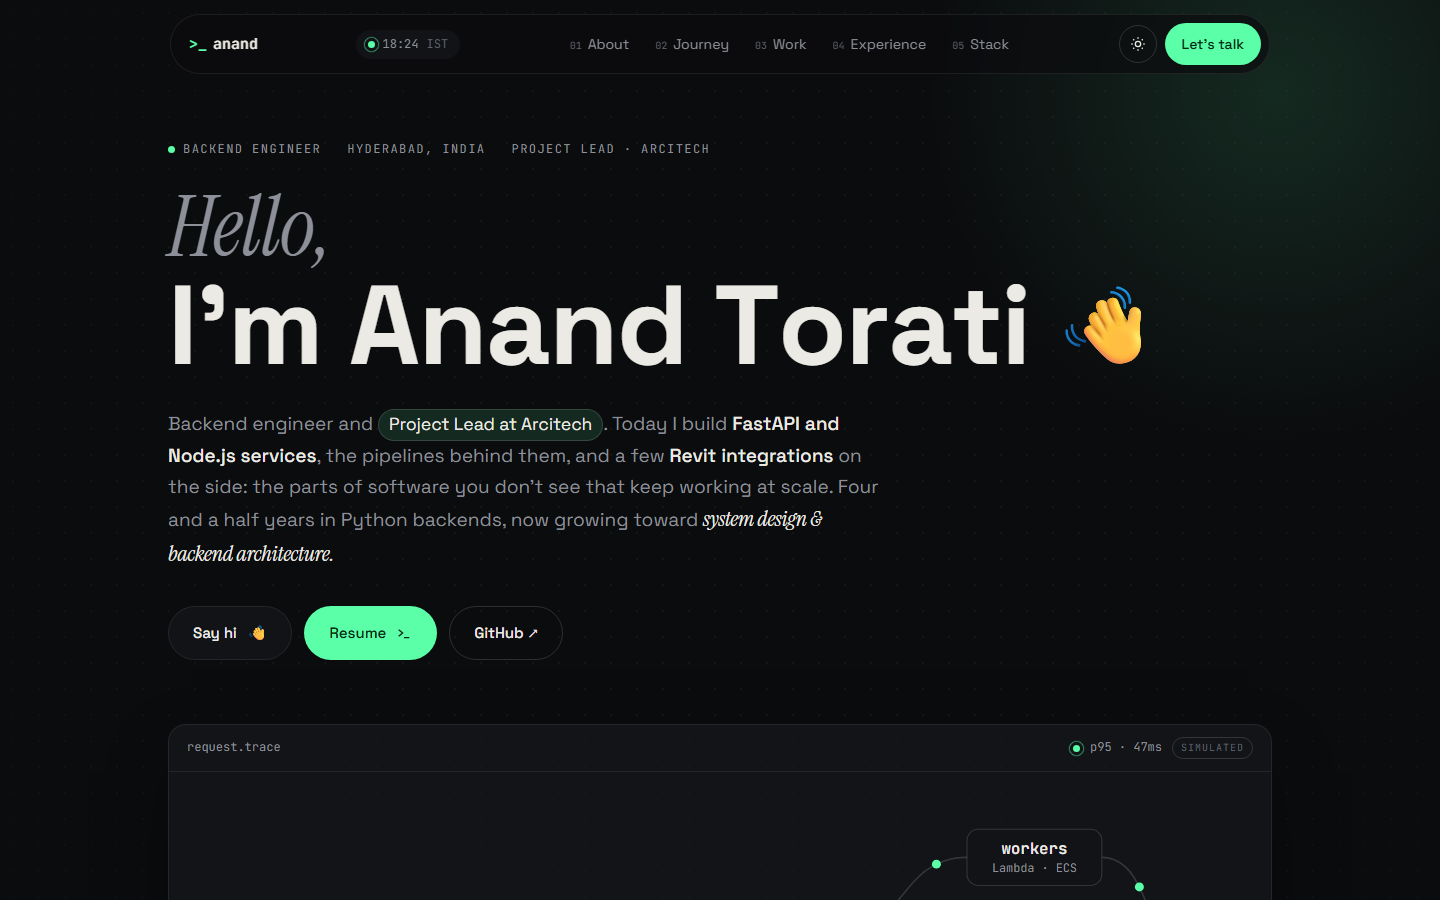
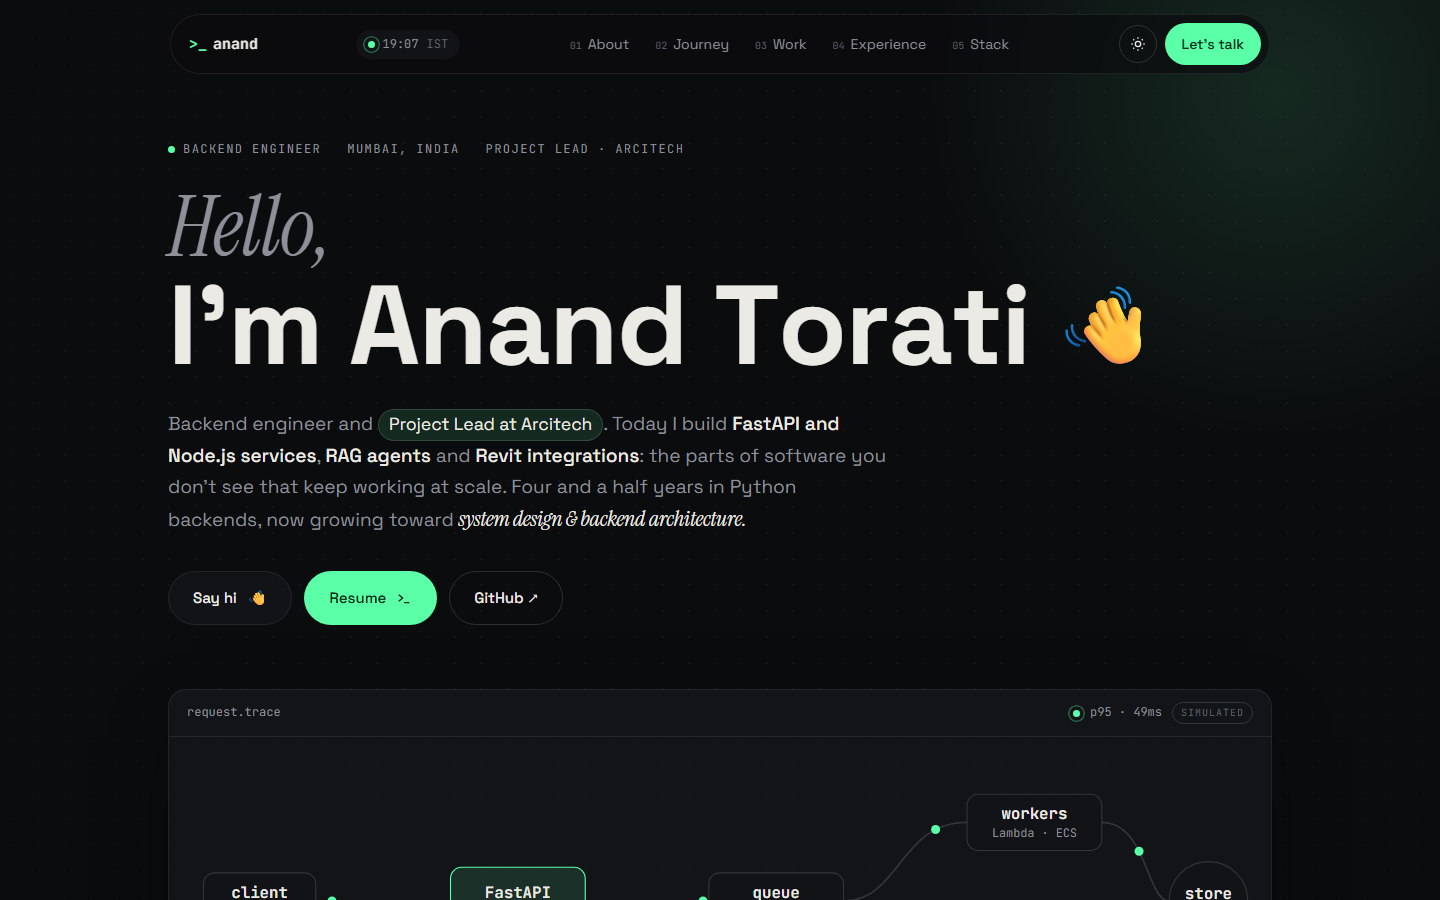
Iteration 13

diff --git a/src/App.jsx b/src/App.jsx
@@ -113,7 +113,7 @@ function Nav({ theme, toggleTheme, ready }) {
         <Anchor to="top" className="nav__brand" aria-label="Back to top">
           <span className="nav__prompt">&gt;_</span><span>anand</span>
         </Anchor>
-        <div className="nav__status" title="Local time in Hyderabad">
+        <div className="nav__status" title="Local time in Mumbai">
           <span className="pulse" /><Clock /><span className="dim">IST</span>
         </div>
         <nav className="nav__links" aria-label="Primary">
@@ -226,7 +226,7 @@ function FlowDiagram() {
 }
 
 /* ---------------- Resume as an API call: terminal streams the response, then a file card ---------------- */
-const RESUME_BYTES = 570838
+const RESUME_BYTES = 571146
 function resumeUrl() {
   // Real absolute URL of the PDF on whatever host serves the site
   try { return new URL(profile.resume, window.location.href).href } catch { return profile.resume }
@@ -378,8 +378,8 @@ function Hero({ ready }) {
                   </span>
                 </h1>
                 <motion.p className="hero__lede" initial={{ opacity: 0, y: 20 }} animate={{ opacity: 1, y: 0 }} transition={{ duration: 0.9, ease, delay: 0.8 }}>
-                  Backend engineer and <span className="pill">Project Lead at Arcitech</span>. Today I build <strong>FastAPI and Node.js services</strong>,
-                  <strong>RAG agents</strong>, and a few <strong>Revit integrations</strong> on the side: the parts of software you don't see that keep working at scale. Four and a half years in Python
+                  Backend engineer and <span className="pill">Project Lead at Arcitech</span>. Today I build <strong>FastAPI and Node.js services</strong>,{' '}
+                  <strong>RAG agents</strong> and <strong>Revit integrations</strong>: the parts of software you don't see that keep working at scale. Four and a half years in Python
                   backends, now growing toward <span className="serif hl">system design &amp; backend architecture.</span>
                 </motion.p>
                 <motion.div className="hero__cta" initial={{ opacity: 0, y: 20 }} animate={{ opacity: 1, y: 0 }} transition={{ duration: 0.9, ease, delay: 1 }}>

diff --git a/src/data.js b/src/data.js
@@ -3,7 +3,7 @@ export const profile = {
   first: 'Anand',
   last: 'Torati',
   role: 'Backend Engineer',
-  location: 'Hyderabad, India',
+  location: 'Mumbai, India',
   current: 'Project Lead · Arcitech',
   email: 'anandtorati@gmail.com',
   github: 'https://github.com/anandT9999',

diff --git a/README.md b/README.md
@@ -4,7 +4,7 @@
 
 **Backend Engineer · Project Lead at Arcitech**
 
-FastAPI and Node.js services, cloud pipelines on AWS, and a few Revit integrations, growing toward system design and backend architecture.
+FastAPI and Node.js services, RAG agents and Revit integrations, growing toward system design and backend architecture.
 
 [![Live site](https://img.shields.io/badge/Live_site-anandt9999.github.io%2Fportfolio-5bffa8?style=for-the-badge&labelColor=0b0c0e)](https://anandt9999.github.io/portfolio/)
 
